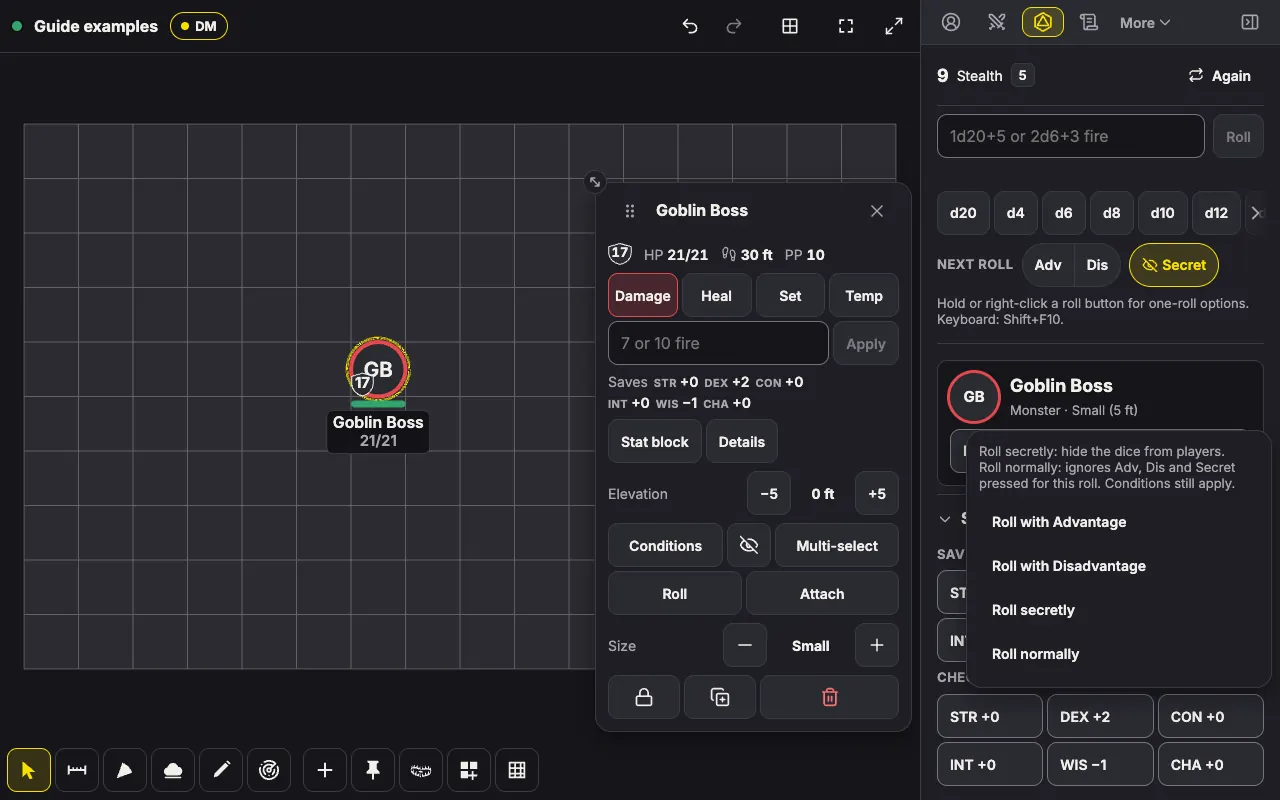
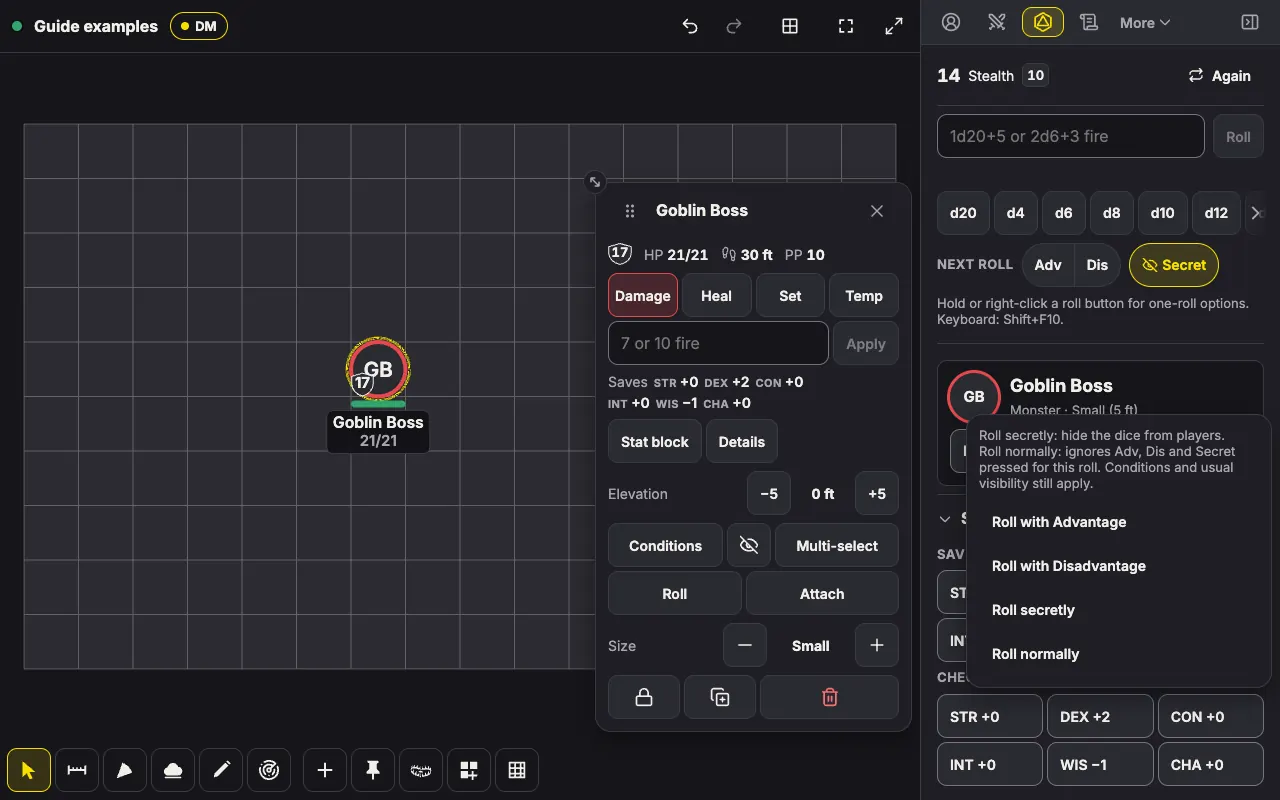
docs: quote the normal help's usual visibility and keep a save-ends result while legendary resistance is left

Changed region(s): [[0.75, 0.5, 0.9688, 0.625], [0.7188, 0.0625, 0.8125, 0.125]]

diff --git a/docs/design-v1-roll-mode-menu.md b/docs/design-v1-roll-mode-menu.md
@@ -214,8 +214,8 @@ These follow the approved one-off behavior, the phone rules and the D&D Beyond d
 
 Built in four lanes on FL-12's tip: the shared contract and single-creature Dice (A), batches, casts and auto initiative (B), requests, the tracker and fight cards (C), and integration, e2e and docs (D). Fixed-visibility exclusions and dropped literal DM-only delivery are settled scope, not pending secrecy work. Where the build went its own way:
 
-- **4, the result line.** Recent rolls shows no mode word. The first build added a plain "Normal" beside a d20 row's dice, which pushed that line onto a second one on phones (79 px rows in place of 61 px at 390 x 844, and a kind-height fault in the alignment sweep). Recent rolls now keeps its rows as they were, and a cancelled roll's words are visually hidden there, for screen readers only. The sticky line's accessible description and its announcement still name the effective mode and Secret. `rollmodes.e2e.ts` dpf1-14 holds it. Request cards, the several-selected batch rows, the group save page, fight cards and HP went the same way (D-261030-583, D-261030-584): words a result showed before the one-roll menu stay as they were and may wrap as they did, and only the words the menu adds must fit. No plain "Normal" is added outside the sticky line, and Secret only where the dice differ from the page or panel switch. An added Advantage, Disadvantage or cancellation shows on the result's line where it costs no line, and otherwise stays in readable text that only screen readers reach. Three of "(Normal, Secret)" had pushed a shared attack's results onto a second line at 375 x 667 at 130%. Auto Initiative keeps its Adv or Dis badge and its cancel note as before, with no added words. `groupsave.e2e.ts` dp-gs2, `combat.e2e.ts` 5 and `rollmodes.e2e.ts` dpf1-21, dpf1-22, dpf1-24 and dpf1-26 hold it. A concentration card and a save-ends card go as their roll lands, so neither has a settled result to measure.
-- **3.1, the menu's help.** Each visible help line names the choice it explains (D-261030-585), such as "Roll secretly: hide the dice from players." and "Roll normally: ignores Adv, Dis and Secret pressed for this roll. Conditions still apply.", and a line for every choice starts "All choices:" or "All repeat choices:". The help quoted in sections 2 and 4 above is the first build's wording.
+- **4, the result line.** Recent rolls shows no mode word. The first build added a plain "Normal" beside a d20 row's dice, which pushed that line onto a second one on phones (79 px rows in place of 61 px at 390 x 844, and a kind-height fault in the alignment sweep). Recent rolls now keeps its rows as they were, and a cancelled roll's words are visually hidden there, for screen readers only. The sticky line's accessible description and its announcement still name the effective mode and Secret. `rollmodes.e2e.ts` dpf1-14 holds it. Request cards, the several-selected batch rows, the group save page, fight cards and HP went the same way (D-261030-583, D-261030-584): words a result showed before the one-roll menu stay as they were and may wrap as they did, and only the words the menu adds must fit. No plain "Normal" is added outside the sticky line, and Secret only where the dice differ from the page or panel switch. An added Advantage, Disadvantage or cancellation shows on the result's line where it costs no line, and otherwise stays in readable text that only screen readers reach. Three of "(Normal, Secret)" had pushed a shared attack's results onto a second line at 375 x 667 at 130%. Where a shared attack's modes stay for screen readers alone, they say each total with its own mode, or a mode every attack shares once. Auto Initiative keeps its Adv or Dis badge and its cancel note as before, with no added words. `groupsave.e2e.ts` dp-gs2, `combat.e2e.ts` 5 and `rollmodes.e2e.ts` dpf1-21, dpf1-22, dpf1-24, dpf1-26 and dpf1-26b hold it. A concentration card goes as its roll lands, so it has no settled result to measure. A save-ends card goes too, except after a fail while Legendary Resistance is left: it then stays with its result until Use Legendary Resistance or Accept failure.
+- **3.1, the menu's help.** Each visible help line names the choice it explains (D-261030-585), such as "Roll secretly: hide the dice from players." and "Roll normally: ignores Adv, Dis and Secret pressed for this roll. Conditions and usual visibility still apply.", and a line for every choice starts "All choices:" or "All repeat choices:". The help quoted in sections 2 and 4 above is the first build's wording.
 - **3.3, closing on a scroll.** An open menu closes when a scroll takes its source out of view, not on any scroll of the source's scroller. A result landing above the source grows the sticky line, and the panel's scroll anchoring moved the scroller under a menu just opened, which closed it.
 - **7, the shortcut sheet.** Right-click, the hold and a reader's double-tap and hold are one row each in the room-wide Mouse with keys and Mouse and touch sections, not one per surface: the registry's own test holds a surface to its keys. ContextMenu, Shift+F10 and the keys inside the menu are rows of Dice, Initiative, Roll requests and Token and character fields, and the fight cards' pair closes the room's Keys section. Each pair's keys are bare, with "in roll options" or the card as its condition: the longer "End in roll options" keycap and "concentration, save-ends or death-save card" pushed the Keys section past a 320 px phone at 130% and the DM's 390 px phone at 130%, which `shortcuts.e2e.ts` 3b and FU40-B measure. FEATURES.md's Shortcuts tables changed with the registry, as `shortcuts.test.ts` requires, and the rest of FEATURES.md with the docs.
 - **6, the e2e.** The new file `e2e/rollmodes.e2e.ts` runs on E2E_PORT plus thirty-nine. It times 499 ms and 500 ms on the page's own clock (`page.clock`). Chrome's touch emulation sends no long-press context menu and no click after a held press, so a touch `contextmenu` and Safari's lifting click are dispatched to the page to stand for them.

diff --git a/docs/dm-guide.md b/docs/dm-guide.md
@@ -875,7 +875,7 @@ Under the quick dice sits the **Next roll** row. **Adv** and **Dis** are joined 
 
 **One roll, another way.** Sometimes you want a single roll with Advantage, or a single roll in secret, without touching Next roll. Hold any roll button for half a second, right-click it with a mouse, or focus it and press `Shift+F10` or the `ContextMenu` key, and a short menu offers **Roll with Advantage**, **Roll with Disadvantage**, **Roll secretly** and **Roll normally**. Nothing rolls until you pick, and your pick rolls once, for that roll alone. The Adv, Dis and Secret you pressed under Next roll stay exactly as they were, waiting for your next ordinary roll. A plain tap, or `Enter` on the focused button, still rolls as it always did, so the menu is a shortcut and Next roll stays the way to do the same thing in plain sight. The line under Next roll reminds everyone: "Hold or right-click a roll button for one-roll options. Keyboard: Shift+F10."
 
-![The Goblin Boss's Dexterity check right-clicked: its menu over the boss's saves, with "Roll secretly: hide the dice from players." and "Roll normally: ignores Adv, Dis and Secret pressed for this roll. Conditions still apply." above its four choices.](dm-guide/dice-roll-menu.webp)
+![The Goblin Boss's Dexterity check right-clicked: its menu over the boss's saves, with "Roll secretly: hide the dice from players." and "Roll normally: ignores Adv, Dis and Secret pressed for this roll. Conditions and usual visibility still apply." above its four choices.](dm-guide/dice-roll-menu.webp)
 
 - **Roll with Advantage** and **Roll with Disadvantage** replace any Advantage or Disadvantage you pressed or typed for this roll, and keep a Secret you pressed. The creature's own still count: a Restrained monster's Dexterity save picked with Advantage cancels to a normal roll, and the result says so.
 - **Roll secretly** hides the dice from players, as Secret does, and keeps an Adv or Dis you pressed. A player who picks it still sees their own roll, and so do you.
